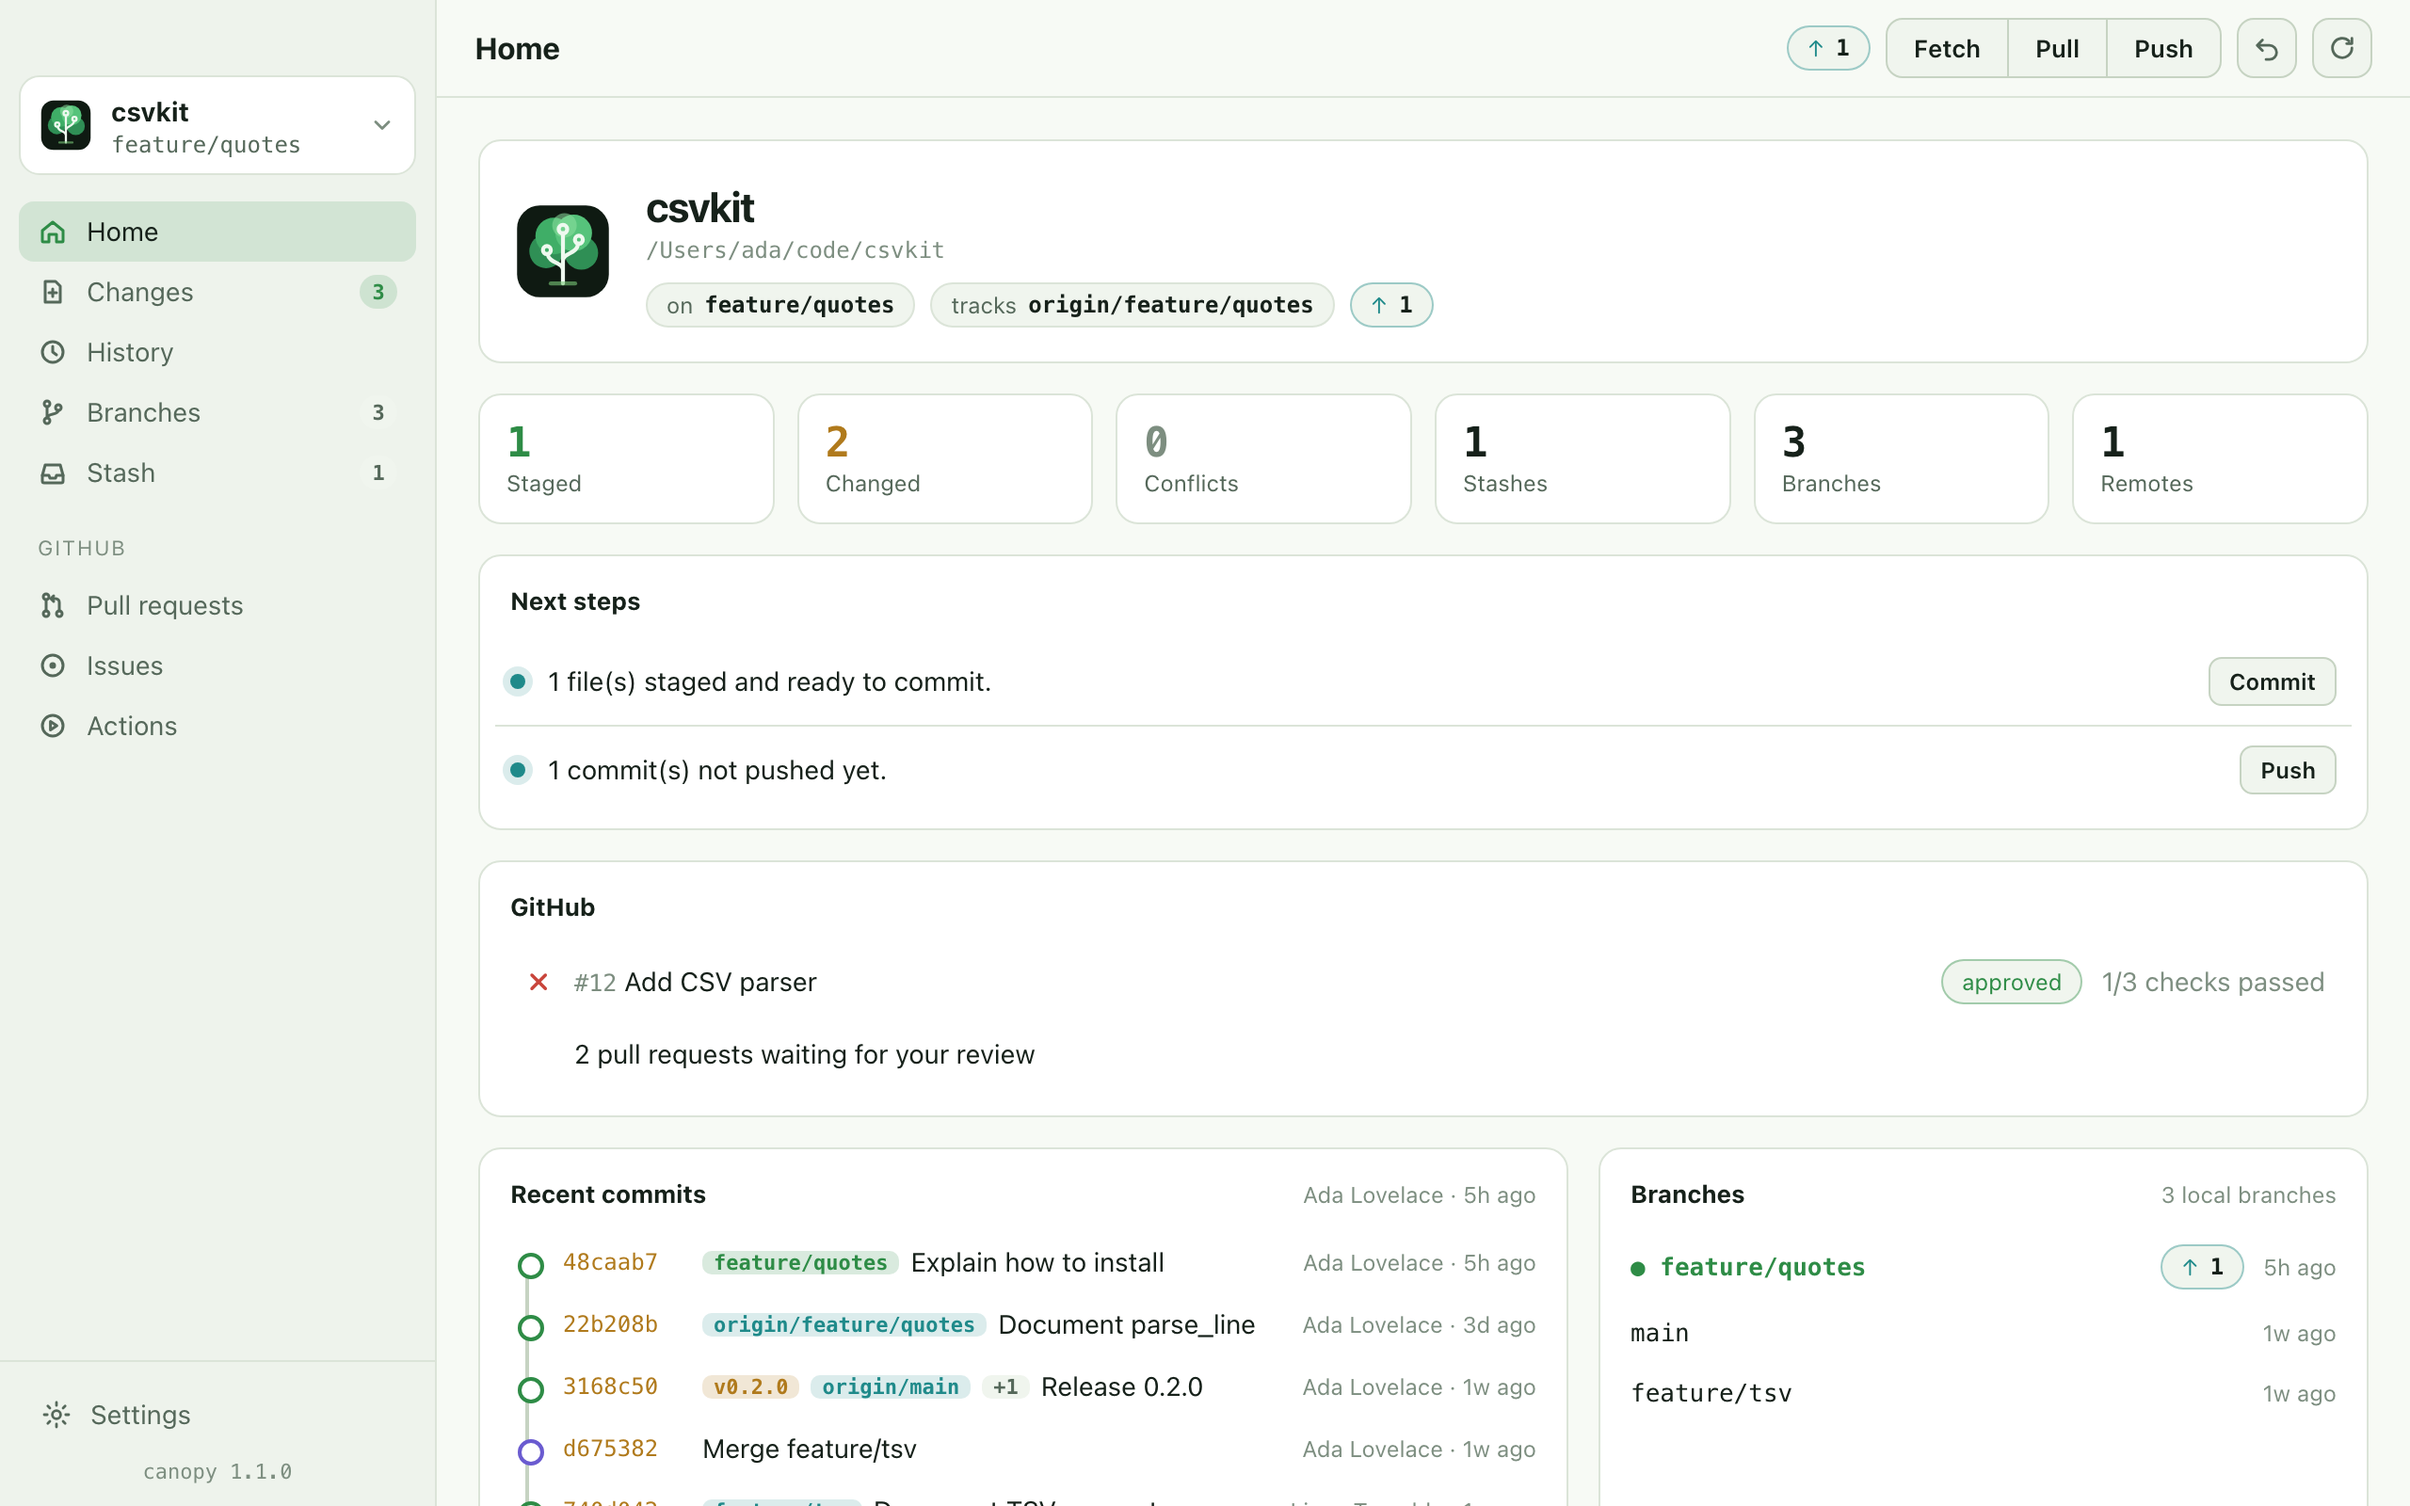
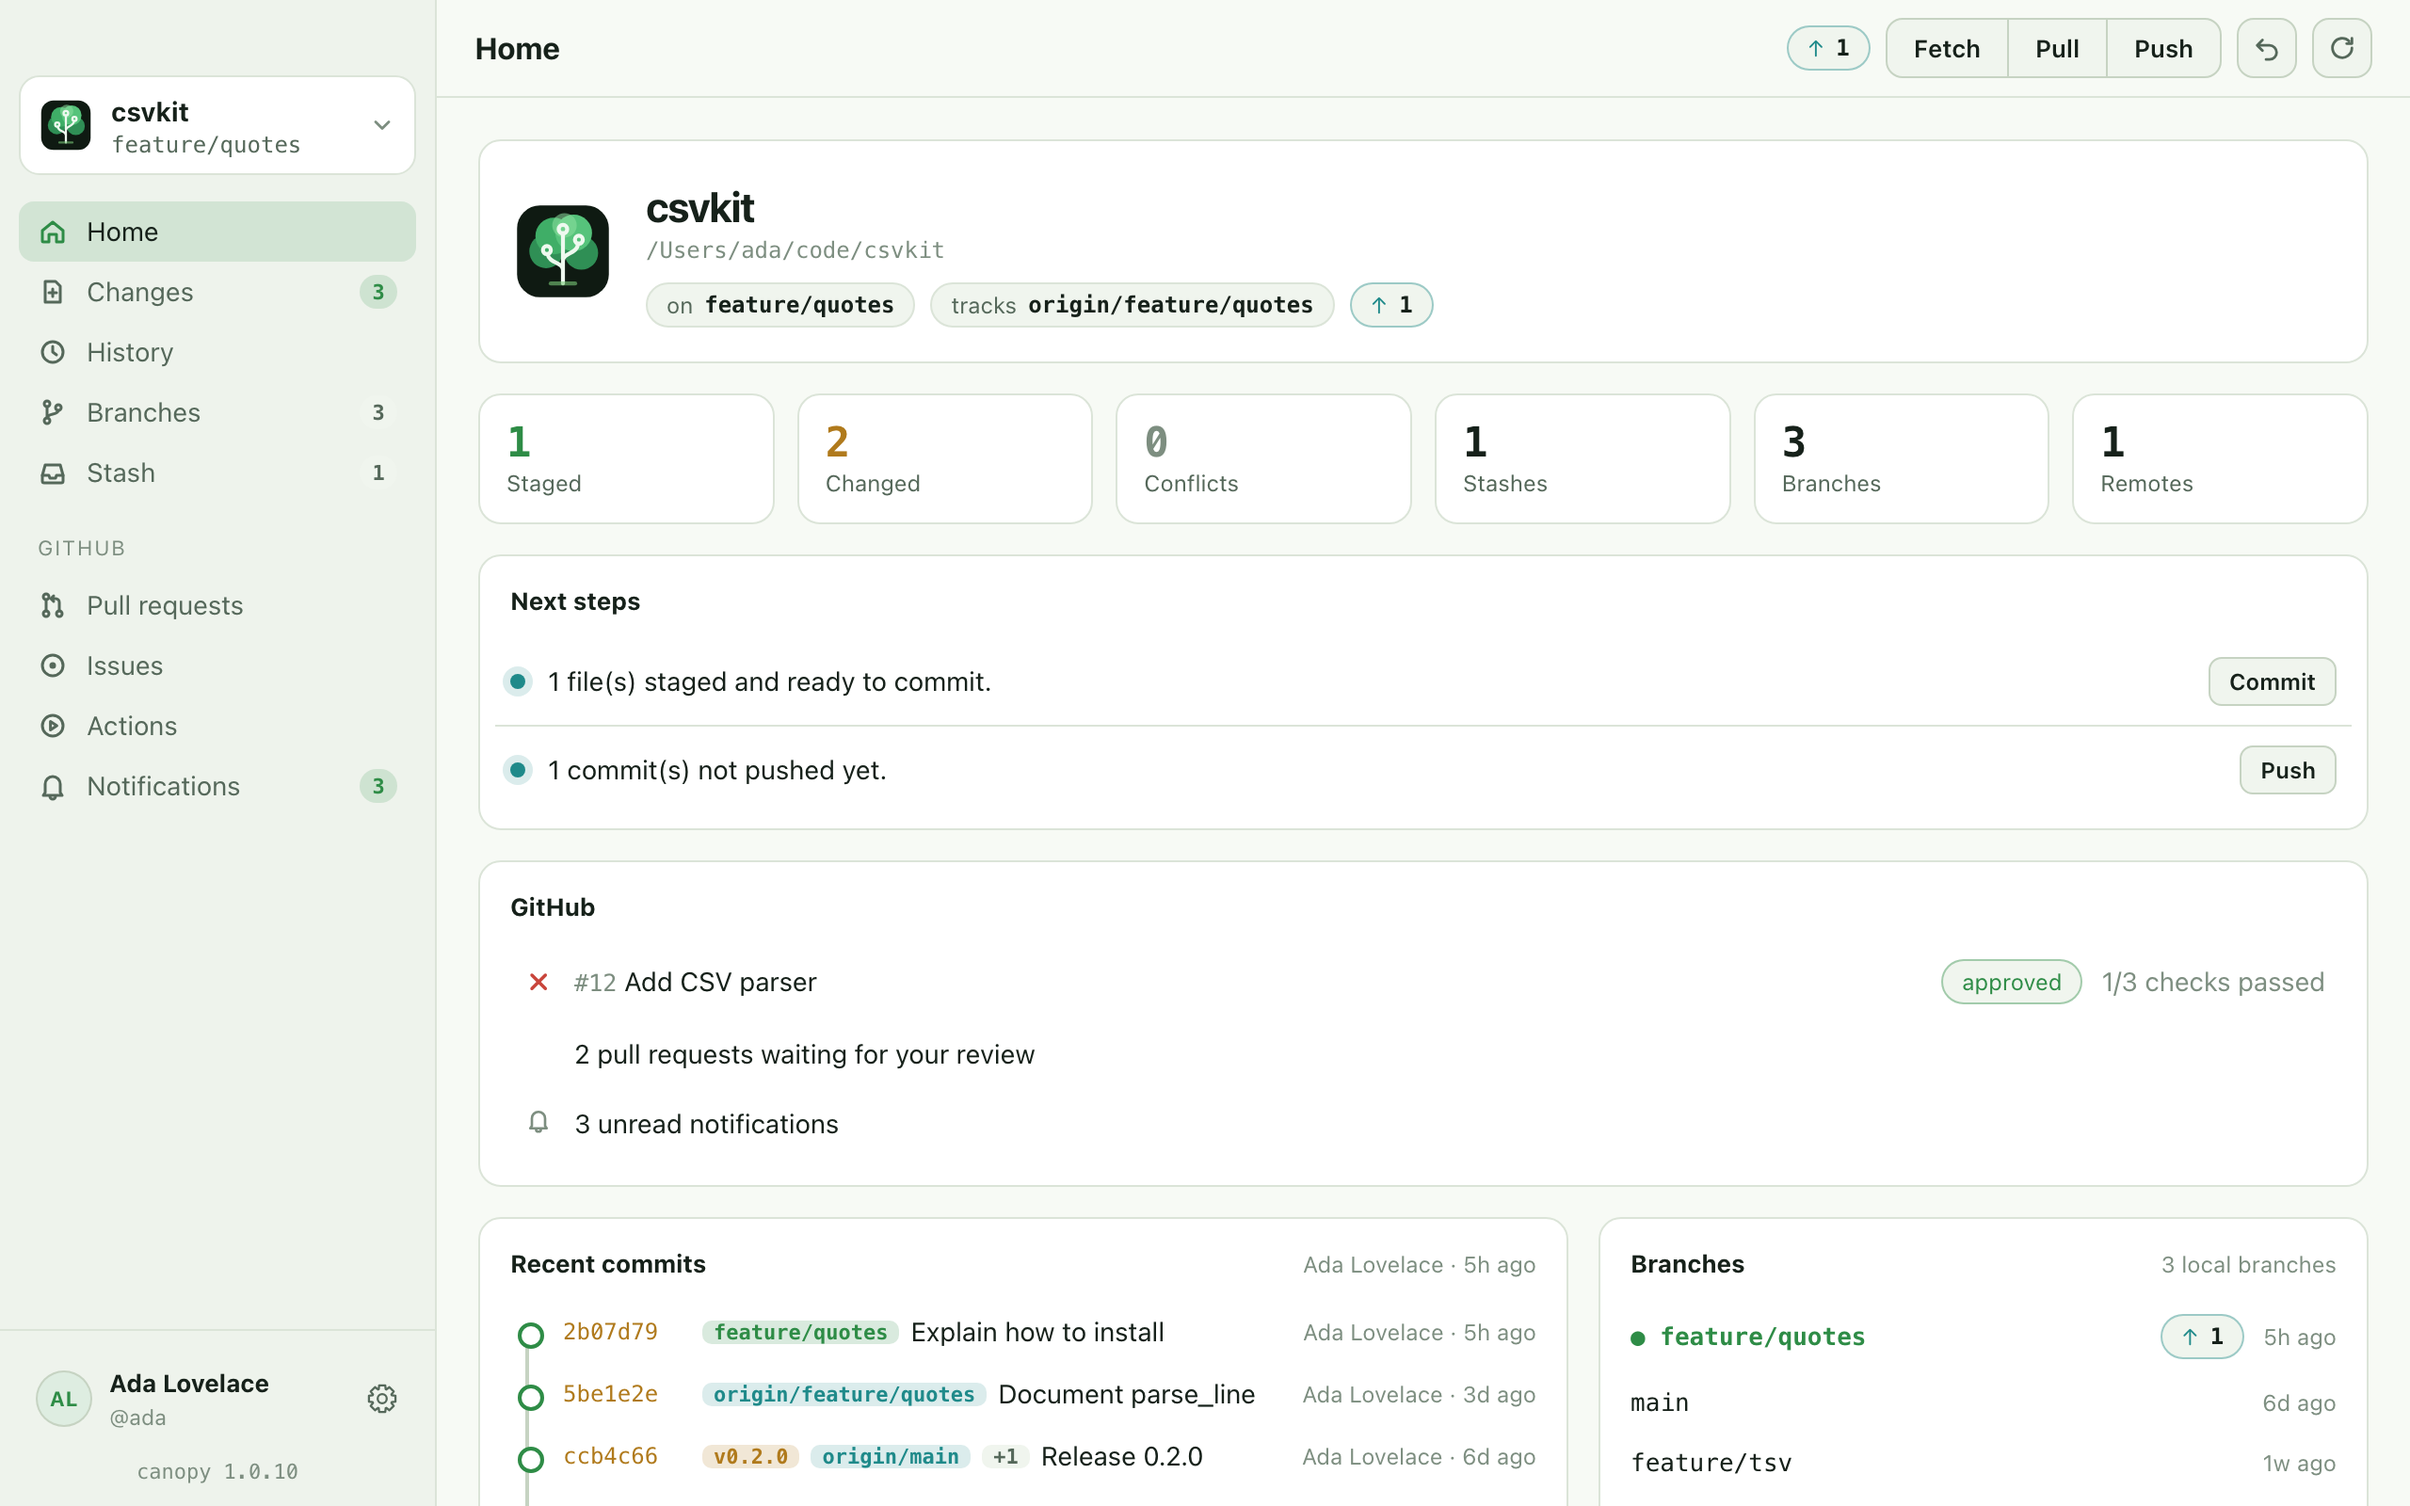
Website: fresh Canopy Desktop screenshots
Retaken from the current app (1.0.10): the old ones showed "canopy 1.1.0" in
the sidebar. Same csvkit demo repository, plus a new Notifications shot on the
desktop page.

diff --git a/docs/desktop.html b/docs/desktop.html
@@ -75,7 +75,7 @@
   <li><b>A safety net.</b> Canopy asks before anything that throws work away and says exactly what would be lost. After a commit, checkout, merge or reset, it reminds you that <kbd>⌘Z</kbd> undoes it.</li>
   <li><b>Learn git as you go.</b> With <b>Show git commands</b> on (the default), every action shows the command Canopy ran.</li>
 </ul>
-<img class="appshot" src="assets/desktop/learning.png" alt="Canopy Desktop Home with the New to git card (change, stage, commit, push), the Staged tile explaining what staged means, and a Connect to GitHub button on a next step" width="1280" height="800" loading="lazy">
+<img class="appshot" src="assets/desktop/learning.png" alt="Canopy Desktop Home with the New to git card (change, stage, commit, push) and the Staged tile explaining what staged means" width="1280" height="800" loading="lazy">
 <h2 id="home">Home</h2>
 <p>Where your branch stands, what's staged and changed, and <b>next steps</b> with a button for each: commit, push, pull, resolve. If this branch has a pull request, its checks and review are right there.</p>
 <img class="appshot" src="assets/desktop/home.png" alt="Canopy Desktop Home: branch and sync status, counts, next steps with buttons, the GitHub card, recent commits and branches" width="1280" height="800" loading="lazy">
@@ -93,6 +93,7 @@
 <img class="appshot" src="assets/desktop/prs.png" alt="Canopy Desktop pull requests: the list with checks and review state, and a pull request's details" width="1280" height="800" loading="lazy">
 <img class="appshot" src="assets/desktop/runs.png" alt="Canopy Desktop Actions: runs, a failed job's steps, and the end of the failed log" width="1280" height="800" loading="lazy">
 <p><b>Notifications</b> has its own page in the sidebar, with a count of unread ones (Home shows it too): review requests, mentions and CI results from every repository, or just this one. Each says why you got it. Open one in Canopy when it's about this repository, view it on GitHub, or mark it read.</p>
+<img class="appshot" src="assets/desktop/notifications.png" alt="Canopy Desktop Notifications: unread review requests, mentions and assignments from every repository, and the selected notification with Open in Canopy" width="1280" height="800" loading="lazy">
 
 <h2 id="fix-with-ai">Fix with AI</h2>
 <p>When CI fails on your latest commit, Home says so: <b>Canopy found an error in your latest commit</b>, with what failed. <b>Details</b> shows exactly what went wrong in a popup (copy it, open it in an editor, or <b>View in GitHub</b>), and <b>Fix with Claude Code</b> (or Codex, or your own command, set in Settings → AI assistant) writes a prompt from the failure and opens the assistant in a new terminal window to fix it. The same button is on every failed run in Actions. <a href="github.html#fix-with-ai">How it works</a>.</p>
